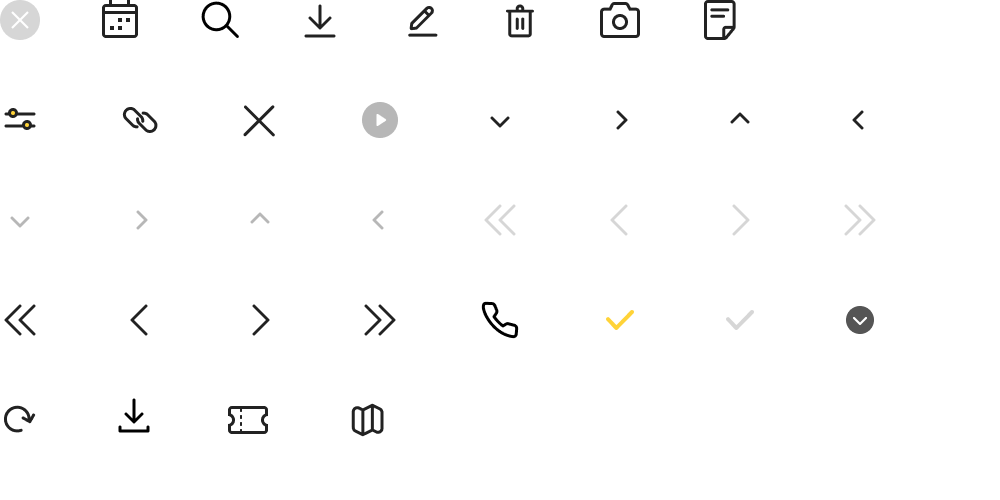
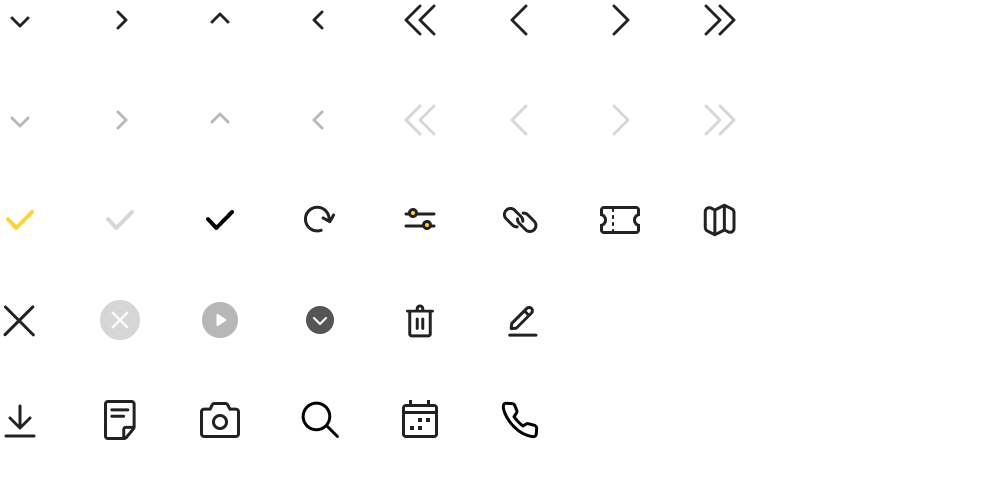
이미지 변경

diff --git a/guide/assets/css/common.css b/guide/assets/css/common.css
@@ -99,7 +99,7 @@ hr.hr_divide{padding:0; margin:6.5rem 0; border:0 none; height:1rem; background:
 .btn_txt{display:inline-block; font-size:1.3rem; line-height:2; vertical-align:middle; color:var(--fc_02, #26282c);}
 .btn_txt.link{line-height:1.4; text-decoration:underline;}
 .btn_txt.ico_arr{position:relative; padding-right:1.5rem;}
-.btn_txt.ico_arr::after{position:absolute; right:0; top:50%; margin-top:-0.6rem; content:''; display:block; width:1.2rem; height:1.2rem; background:url(../images/ico/ico_arrow_12.png) -5rem 0 / 20rem auto no-repeat; transform:rotate(-90deg);}
+.btn_txt.ico_arr::after{position:absolute; right:0; top:50%; content:''; display:block; width:0.6rem; height:0.6rem; margin:-0.3rem 0.3rem 0 0; border:solid var(--fc_05, #8c949e); border-width:0 1px 1px 0; transform:rotate(-45deg);}
 
 
 /* **** table **** */
@@ -163,12 +163,13 @@ hr.hr_divide{padding:0; margin:6.5rem 0; border:0 none; height:1rem; background:
 .acd_wrap .acd_ttl{position:relative;}
 .acd_wrap .acd_ttl .ttl{padding:2rem 3.6rem 2rem 0; font-size:1.6rem; font-weight:700; color:var(--fc_01);}
 .acd_wrap .acd_ttl button.ttl{width:100%; text-align:left;}
-.acd_wrap .acd_ttl button.ttl::after{position:absolute; right:0; top:50%; margin-top:-1.2rem; content:''; display:block; width:2.4rem; height:2.4rem; background:url(../images/ico/ico_arrow_24.png) -5rem 0 / 20rem auto no-repeat;}
+.acd_wrap .acd_ttl button.ttl::after{position:absolute; right:1rem; top:50%; content:''; display:block; width:1rem; height:1rem; margin-top:-0.8rem; border:solid var(--fc_05, #8c949e); border-width:0 1px 1px 0; transform:rotate(45deg);}
 .acd_wrap .acd_panel{padding:0 0 2rem; display:none;}
 /* accordion on */
-.acd_wrap li.on .acd_ttl button.ttl::after{transform:rotate(180deg);}
+.acd_wrap li.on .acd_ttl button.ttl::after{transform:rotate(-135deg); margin-top:-0.2rem;}
 /* ico button */
-.acd_wrap .acd_ttl button.ico{position:absolute; right:0; top:50%; margin-top:-1.2rem; display:block; width:2.4rem; height:2.4rem; background:url(../images/ico/ico_arrow_24.png) -5rem 0 / 20rem auto no-repeat;}
+.acd_wrap .acd_ttl button.ico{position:absolute; right:0; top:50%; margin-top:-1.2rem; display:block; width:2.4rem; height:2.4rem;}
+.acd_wrap .acd_ttl button.ico::after{position:absolute; left:50%; top:50%; content:''; display:block; width:1rem; height:1rem; margin:-0.8rem 0 0 -0.5rem; border:solid var(--fc_05, #8c949e); border-width:0 1px 1px 0; transform:rotate(45deg);}
 .acd_wrap li.on .acd_ttl button.ico{transform:rotate(180deg);}
 
 
@@ -176,22 +177,23 @@ hr.hr_divide{padding:0; margin:6.5rem 0; border:0 none; height:1rem; background:
 .toggle_wrap{margin:3.2rem 0 0;}
 /* toggle notice */
 .toggle_notice .toggle_ttl{height:2.6rem; display:flex; align-items:center; width:fit-content; margin:0 auto;}
-.toggle_notice .toggle_ttl::after{content:''; display:inline-block; width:1.4rem; height:1.4rem; background:url(../images/ico/ico_toggle.png) 0 0 / 100% auto no-repeat; margin-left:0.4rem;}
+.toggle_notice .toggle_ttl::after{content:''; display:inline-block; width:2rem; height:2rem; background:url(../images/ico/spr_20.png) -15rem -15rem / 50rem auto no-repeat;}
 .toggle_notice .toggle_ttl[aria-expanded='true']::after{transform:rotate(180deg)}
 /* toggle detail */
 .toggle_detail .toggle_ttl{height:2.6rem; display:flex; align-items:center; width:fit-content; margin:0 auto;}
-.toggle_detail .toggle_ttl::after{content:''; display:inline-block; width:1.2rem; height:1.2rem; background:url(../images/ico/ico_arrow_12.png) -5rem 0 / 20rem auto no-repeat; margin-left:0.4rem;}
-.toggle_detail .toggle_ttl[aria-expanded='true']::after{transform:rotate(180deg)}
+.toggle_detail .toggle_ttl::after{content:''; display:inline-block; width:0.6rem; height:0.6rem; border:solid var(--fc_05, #8c949e); border-width:0 1px 1px 0; transform:rotate(45deg); margin-left:0.4rem; margin-bottom:0.2rem;}
+.toggle_detail .toggle_ttl[aria-expanded='true']::after{transform:rotate(-135deg); margin-top:0.2rem; margin-bottom:0;}
 
 
 /* **** pagination **** */
 .pagination {display:flex; justify-content:center; align-items:center; margin-top:2rem;}
 .pagination button {min-width:2.4rem; height:2.4rem;}
-.pagination > button {margin:0 0.4rem; background:url(../images/ico/ico_pagination.png) 0 0 / 12rem auto no-repeat; font-size:0; text-indent:-10000rem; overflow:hidden;}
-.pagination > button.first {background-position:0 0;}
-.pagination > button.last {background-position:-9rem 0;}
-.pagination > button.next {background-position:-6rem 0;}
-.pagination > button.prev {background-position:-3rem 0;}
+.pagination > button {display:flex; align-items:center; justify-content:center; margin:0 0.4rem; font-size:0; text-indent:-10000rem; overflow:hidden;}
+.pagination > button::before{content:''; display:block; width:2rem; height:2rem; background:url(../images/ico/spr_20.png) -20rem -5rem / 50rem auto no-repeat;}
+.pagination > button.first::before {background-position:-20rem -5rem;}
+.pagination > button.last::before {background-position:-35rem -5rem;}
+.pagination > button.next::before {background-position:-30rem -5rem;}
+.pagination > button.prev::before {background-position:-25rem -5rem;}
 .pagination > ul {display:flex; justify-content:center; align-items:center; margin:0 0.6rem;}
 .pagination > ul li {margin:0 0.3rem;}
 .pagination > ul button {font-size:1.6rem; line-height:2.3rem; color:#bbb;}
@@ -231,15 +233,14 @@ hr.hr_divide{padding:0; margin:6.5rem 0; border:0 none; height:1rem; background:
 .guideSwiper .swiper-button-prev{left:0;}
 .guideSwiper .swiper-button-next{right:0;}
 .guideSwiper .swiper-button-prev::before,
-.guideSwiper .swiper-button-next::before{content:''; width:2.4rem; height:2.4rem; background:url(../images/ico/ico_arrow_24.png) -5rem 0 / 20rem auto no-repeat;}
-.guideSwiper .swiper-button-prev::before{transform:rotate(90deg);}
-.guideSwiper .swiper-button-next::before{transform:rotate(-90deg);}
+.guideSwiper .swiper-button-next::before{position:absolute; left:50%; top:50%; content:''; display:block; width:1.2rem; height:1.2rem; margin:-0.6rem 0 0 -0.8rem; border:solid var(--fc_05, #8c949e); border-width:0 2px 2px 0; transform:rotate(-45deg);}
+.guideSwiper .swiper-button-prev::before{transform:rotate(135deg); margin-left:-0.4rem;}
 .guideSwiper .swiper-button-disabled{opacity:0.35;}
 .guideSwiper .swiper-pagenation-wrap{position:absolute; left:50%; bottom:1rem; height:2.6rem; display:flex; align-items:center; transition:.3s opacity; transform:translate3d(-50%, 0, 0); background:rgba(0,0,0, 0.2); padding:0 1.4rem; border-radius:2.6rem; z-index:10;}
 .guideSwiper .swiper-pagination {display:flex; align-items:center;}
 .guideSwiper .swiper-paging{margin:0.1rem 0.6rem 0 1rem; font-size:1.1rem; color:#fff;}
-.guideSwiper .swiper-autoplay-control{width:1.6rem; height:1.6rem; background:red; background:url(../images/ico/ico_slide_16.png) 0 0 / 10rem auto no-repeat;}
-.guideSwiper .swiper-autoplay-control[aria-pressed="true"]{background-position:-2rem 0;}
+.guideSwiper .swiper-autoplay-control{width:1.6rem; height:1.6rem; background:red; background:url(../images/ico/spr_16.png) -10rem 0 / 50rem auto no-repeat;}
+.guideSwiper .swiper-autoplay-control[aria-pressed="true"]{background-position:-15rem 0;}
 .guideSwiper .swiper-pagination-bullet{width:0.8rem; height:0.8rem; border-radius:1rem; background:#fff; opacity:0.3;}
 .guideSwiper .swiper-pagination-bullet + .swiper-pagination-bullet{margin-left:0.4rem;}
 .guideSwiper .swiper-pagination-bullet-active{opacity:1;}
@@ -389,8 +390,10 @@ hr.hr_divide{padding:0; margin:6.5rem 0; border:0 none; height:1rem; background:
 .input input[disabled] + .form_btn .btn_clear{display:none;}
 /* form btn btn_etc */
 .input .btn_box{height:2.6rem; line-height:2.6rem; padding:0 1.2rem; white-space:nowrap; word-break:keep-all; font-size:1.2rem; color:#fff; background:#555; border-radius:0.4rem;}
-.input .btn_search{width:2.6rem; height:2.6rem; background:url(../images/ico/ico_search.png) 50% 50% / 2rem auto no-repeat;}
-.input .btn_calendar{width:2.6rem; height:2.6rem; background:url(../images/ico/ico_calendar.png) 50% 50% / 2rem auto no-repeat;}
+.input .btn_search{display:flex; align-items:center; justify-content:center; width:2.6rem; height:2.6rem;}
+.input .btn_search::before{content:''; display:block; width:2rem; height:2rem; background:url(../images/ico/spr_20.png) -15rem -20rem / 50rem auto no-repeat;}
+.input .btn_calendar{display:flex; align-items:center; justify-content:center; width:2.6rem; height:2.6rem;}
+.input .btn_calendar::before{content:''; display:block; width:2rem; height:2rem; background:url(../images/ico/spr_20.png) -20rem -20rem / 50rem auto no-repeat;}
 
 
 /* **** textarea **** */
@@ -586,7 +589,7 @@ hr.hr_divide{padding:0; margin:6.5rem 0; border:0 none; height:1rem; background:
 .chkbx_item.chk label::before{content:''; position:absolute; left:0; top:0.1rem; display:block; width:2rem; height:2rem; border-radius:0.4rem; background-color:#efefef;}
 .chkbx_item.chk input:disabled + label{color:#999;}
 .chkbx_item.chk input:disabled + label::before{opacity:0.5}
-.chkbx_item.chk input:checked + label::before{border-color:#ffcc00; background:url(../images/ico/ico_chk.png) 50% 50% / 1.4rem auto no-repeat #ffcc00;}
+.chkbx_item.chk input:checked + label::before{border-color:#ffcc00; background:url(../images/ico/spr_20.png) -10rem -10rem / 50rem auto no-repeat #ffcc00;}
 .chkbx_item.chk label em{font-size:1.3rem;}
 
 /* checkbox etc */
